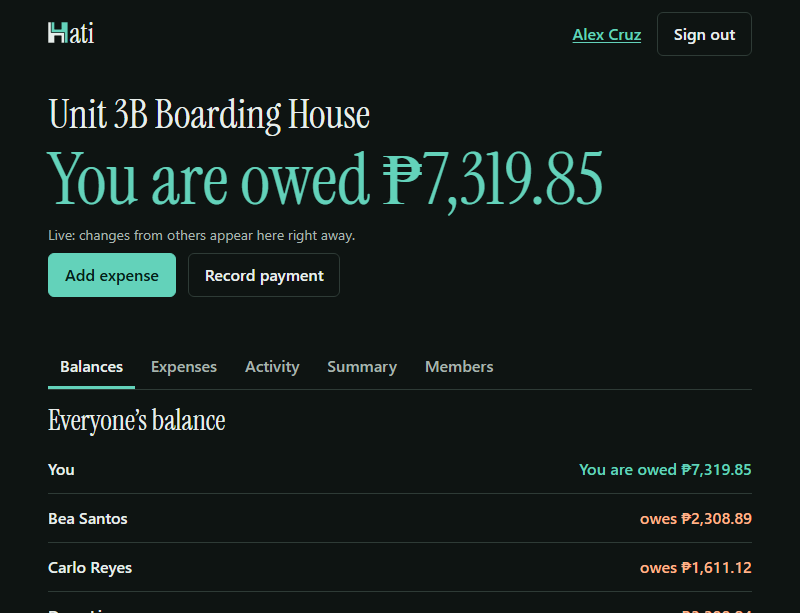
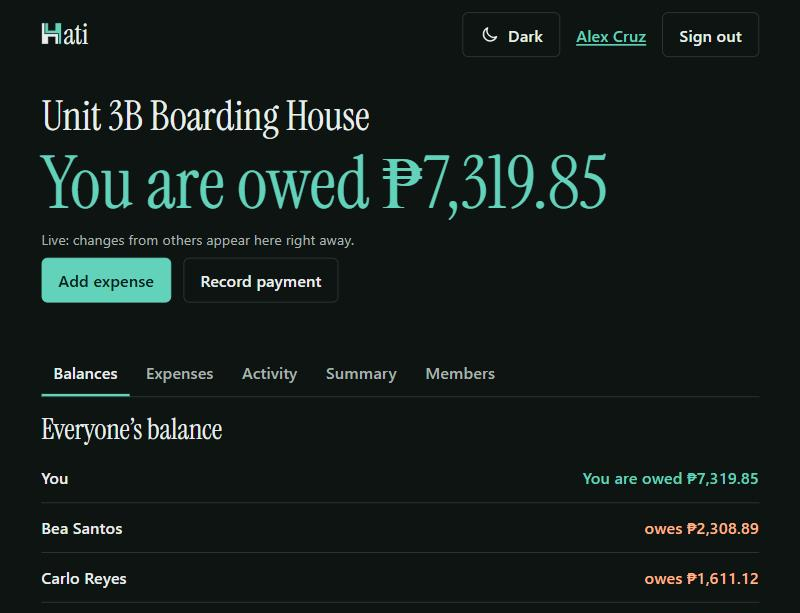
docs: retake the sign-in and dark mode screenshots
- Show the provider logos and theme switch on the sign-in page
- Show the dark theme chosen with the switch on the balances page

diff --git a/README.md b/README.md
@@ -31,7 +31,7 @@ Hati (Filipino for "to split") is for housemates, project groups and friends who
     <td width="50%" align="center"><b>Your groups</b><br><a href="docs/images/groups.png"><img src="docs/images/groups.png" width="100%" alt="Groups list with one group and forms to start or join a group"></a></td>
   </tr>
   <tr>
-    <td width="50%" align="center"><b>Sign in</b><br><a href="docs/images/sign-in.png"><img src="docs/images/sign-in.png" width="100%" alt="Sign-in page with Google and GitHub buttons above an email and password form"></a></td>
+    <td width="50%" align="center"><b>Sign in</b><br><a href="docs/images/sign-in.png"><img src="docs/images/sign-in.png" width="100%" alt="Sign-in page with Google and GitHub buttons with their logos, a theme switch, and an email and password form"></a></td>
     <td width="50%" align="center"><b>Expenses</b><br><a href="docs/images/expenses.png"><img src="docs/images/expenses.png" width="100%" alt="Expenses tab listing each expense with its date, category, who paid, your share and the amount"></a></td>
   </tr>
   <tr>
